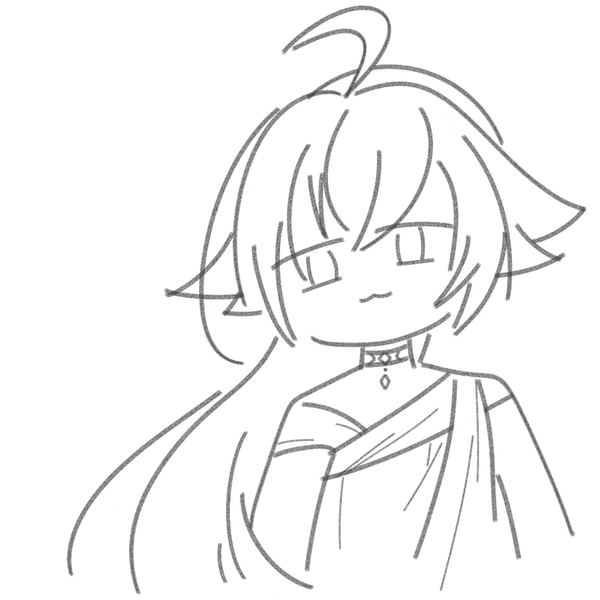
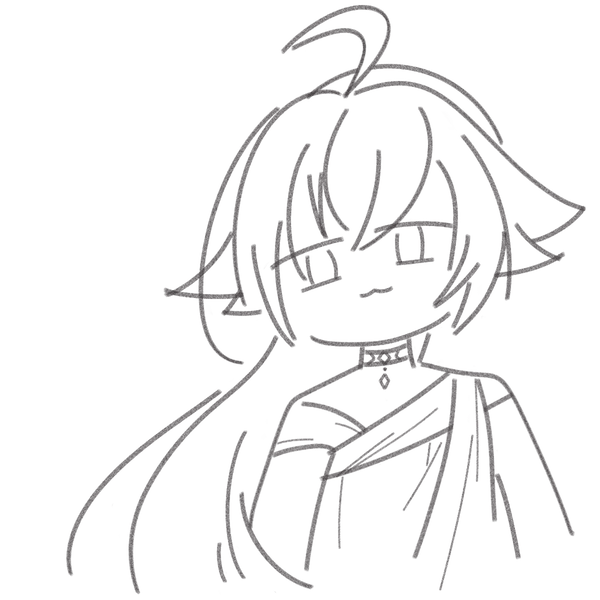
UPDATE

diff --git a/blog/page/about.html b/blog/page/about.html
@@ -116,10 +116,10 @@
 		很早就想做个自己的网站了。2023 年 2 月的一天，在 Cloudflare 的帮助下，我成功部署了网站的第一个版本。当然，和现在的样子大有不同。
 		<br />
 		<br class="f-1" />
-		咱自己搭的网站框架。这里是项目地址: <a class="link" href="https://github.com/sumiyo-git/site" target="_blank">github.com/</a>。 自学的编程，代码质量比较低... 设计灵感来自 <a class="link" href="https://kotobank.jp/" target="_blank"> kotobank.jp/</a>。和最初的设想一样: 简洁，但不失优雅。它不是最好的，但一定是最独一无二的。
+		咱自己搭的网站框架。这里是项目地址: <a class="link" href="https://github.com/sumiyo-git/site" target="_blank">github.com/</a>，设计灵感来自 <a class="link" href="https://kotobank.jp/" target="_blank"> kotobank.jp/</a>。和最初的设想一样: 简洁，但不失优雅。它不是最好的，但一定是最独一无二的。
 		<br />
 		<br class="f-1" />
-		2024 年 11 月，咱在 Namesilo 上注册了 <ins>sumiyo.link</ins> 这个域名（".link" 比较低调）
+		2024 年 11 月，咱注册了 <ins>sumiyo.link</ins> 这个域名（".link" 比较低调）
 		<br />
 		<br class="f-1" />
 		2025 年初，首轮优化结束，调整全部脚本的函数声明方式，彻底放弃了对 jQuery 库的依赖。4 月，这里遭受了一场小规模的后台爆破攻击，好在事情没有闹大。
@@ -128,7 +128,7 @@
 		8 月，最近有点忙，网站可能要停更一段时间 ...
 		<br />
 		<br class="f-1" />
-		12 月，结课报告还没有写完 ...
+		11 月，博主偷偷跑去学画画去了（画师都不是学出来的，全是逼出来的 ... ）。总之就是咱有能力去亲自设计站娘了，于是就搞了这么一次大更新。对了，结课论文还没写完 ...
 	</para>
 
 </div>

diff --git a/index.html b/index.html
@@ -88,7 +88,7 @@
 
 	<div class="des" style="display: none;" >
 		Hello from <span>sumiyo</span>
-		<span class="f-2">这里是 mio 的个人网站，主要分享生活、技术和动漫方面的文章。回忆很是珍贵，我想把他们都收集起来 ...</span>
+		<span class="f-2">这里是 mio 的个人网站，主要分享生活、技术和动漫方面的文章。回忆无比可贵，所以咱想把他们全部收集起来 ...</span>
 		<br class="f-1" />
 		<br class="f-1 f-2" />
 		<a onclick="env.f.root.blog.open('page/about')" >关于</a><a onclick="env.f.root.blog.open('page/square')" >网站广场</a>
